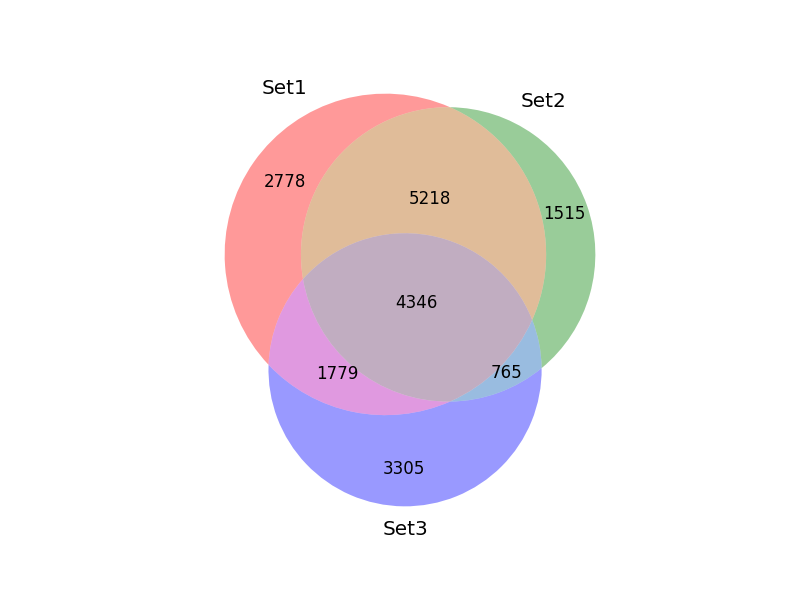
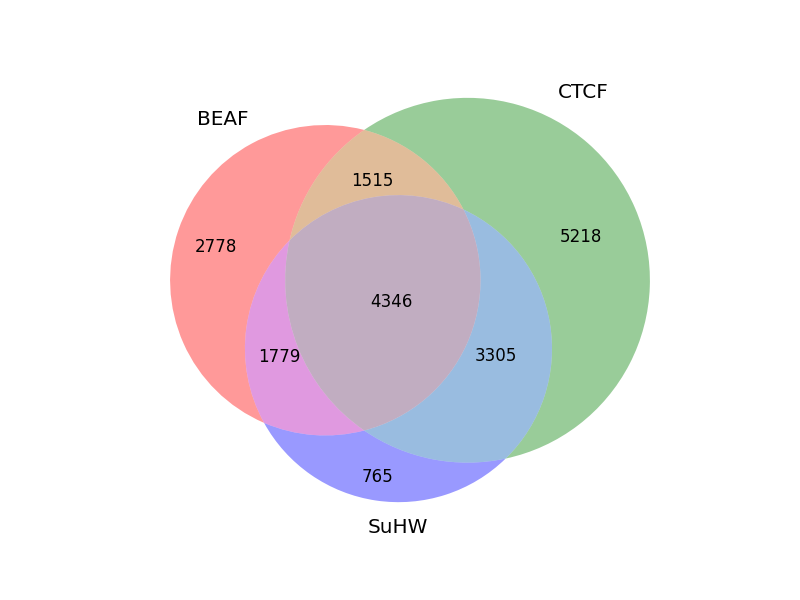
exercise 2

diff --git a/day4/Exercise2.1.py b/day4/Exercise2.1.py
@@ -1,0 +1,65 @@
+import numpy
+import copy
+
+class ChromosomeLocationBitArrays( object ):
+
+    def __init__( self, dicts=None, fname=None ):
+        # If dicts parameter provided, use to initialize
+        if dicts is not None:
+            arrays = dicts
+        else:
+            arrays = {}
+        # If fname parameter provided, initialize from file
+        if fname is not None: 
+            for line in open( fname ):
+                fields = line.split()
+                name = fields[0]
+                size = int( fields[1] )
+                arrays[name] = numpy.zeros( size, dtype=bool )
+        self.arrays = arrays
+
+    def set_bits_from_file( self, fname ):
+        for line in open( fname ):
+            fields = line.split()
+            # Parse fields
+            chrom = fields[0]
+            start = int( fields[1] )
+            end = int( fields[2] )
+            self.arrays[ chrom ][ start : end ] = 1
+        
+    def intersect( self, other ):
+        rval = {}
+        for chrom in self.arrays:
+            rval[chrom] = self.arrays[chrom] & other.arrays[chrom]
+        return ChromosomeLocationBitArrays( dicts=rval )
+        
+    def union( self, other ):
+        rval = {}
+        for chrom in self.arrays:
+            rval[chrom] = self.arrays[chrom] | other.arrays[chrom]
+        return ChromosomeLocationBitArrays( dicts=rval )
+        
+    def complement( self ):
+        rval = {}
+        for chrom in self.arrays:
+            rval[chrom] = ~ self.arrays[chrom]
+        return ChromosomeLocationBitArrays( dicts=rval )
+        
+    def copy( self ):
+        return ChromosomeLocationBitArrays( 
+            dicts=copy.deepcopy( self.arrays ) )
+            
+            
+    def create_intervals(self):
+        regions=[]
+        for chrom in self.arrays:
+            row=self.arrays[chrom]
+            for i, x in enumerate(row):
+                for i % 2000000 ==0:
+                    print len(regions), i, chrom, "comp"
+                    if x==1 and row[-1]
+                        start i
+                        if x==0 and row[i-1] ==1:
+                            stop=i
+                            regions.append((chrom, start, stop))
+        return regions

diff --git a/day4/chrombits.py b/day4/chrombits.py
@@ -1,0 +1,50 @@
+import numpy
+import copy
+
+class ChromosomeLocationBitArrays( object ):
+
+    def __init__( self, dicts=None, fname=None ):
+        # If dicts parameter provided, use to initialize
+        if dicts is not None:
+            arrays = dicts
+        else:
+            arrays = {}
+        # If fname parameter provided, initialize from file
+        if fname is not None: 
+            for line in open( fname ):
+                fields = line.split()
+                name = fields[0]
+                size = int( fields[1] )
+                arrays[name] = numpy.zeros( size, dtype=bool )
+        self.arrays = arrays
+
+    def set_bits_from_file( self, fname ):
+        for line in open( fname ):
+            fields = line.split()
+            # Parse fields
+            chrom = fields[0]
+            start = int( fields[1] )
+            end = int( fields[2] )
+            self.arrays[ chrom ][ start : end ] = 1
+        
+    def intersect( self, other ):
+        rval = {}
+        for chrom in self.arrays:
+            rval[chrom] = self.arrays[chrom] & other.arrays[chrom]
+        return ChromosomeLocationBitArrays( dicts=rval )
+        
+    def union( self, other ):
+        rval = {}
+        for chrom in self.arrays:
+            rval[chrom] = self.arrays[chrom] | other.arrays[chrom]
+        return ChromosomeLocationBitArrays( dicts=rval )
+        
+    def complement( self ):
+        rval = {}
+        for chrom in self.arrays:
+            rval[chrom] = ~ self.arrays[chrom]
+        return ChromosomeLocationBitArrays( dicts=rval )
+        
+    def copy( self ):
+        return ChromosomeLocationBitArrays( 
+            dicts=copy.deepcopy( self.arrays ) )

diff --git a/day4/exercise1.py b/day4/exercise1.py
@@ -5,7 +5,6 @@ Count intersection of two BED files
 """
 
 from __future__ import division
-
 import matplotlib.pyplot as plt
 import sys
 import numpy
@@ -79,7 +78,7 @@ for filename in sys.argv[2:]:
 print "Abc: %d, aBc: %d, abC: %d, ABc: %d, aBC: %d, AbC: %d, ABC: %d" % ( count_Abc, count_aBc, count_abC, count_ABc, count_aBC, count_AbC, count_ABC)
 
 plt.figure()
-venn3(subsets=(count_Abc, count_aBc, count_abC, count_ABc, count_aBC, count_AbC, count_ABC), set_labels=('Set1', 'Set2', 'Set3', 'Set4', 'Set5', 'Set6', 'Set7'))
+venn3(subsets=(count_Abc, count_aBc, count_abC, count_ABc, count_aBC, count_AbC, count_ABC), set_labels=('BEAF', 'CTCF', 'SuHW'))
 plt.savefig("Venndiagram.png")
 
 
